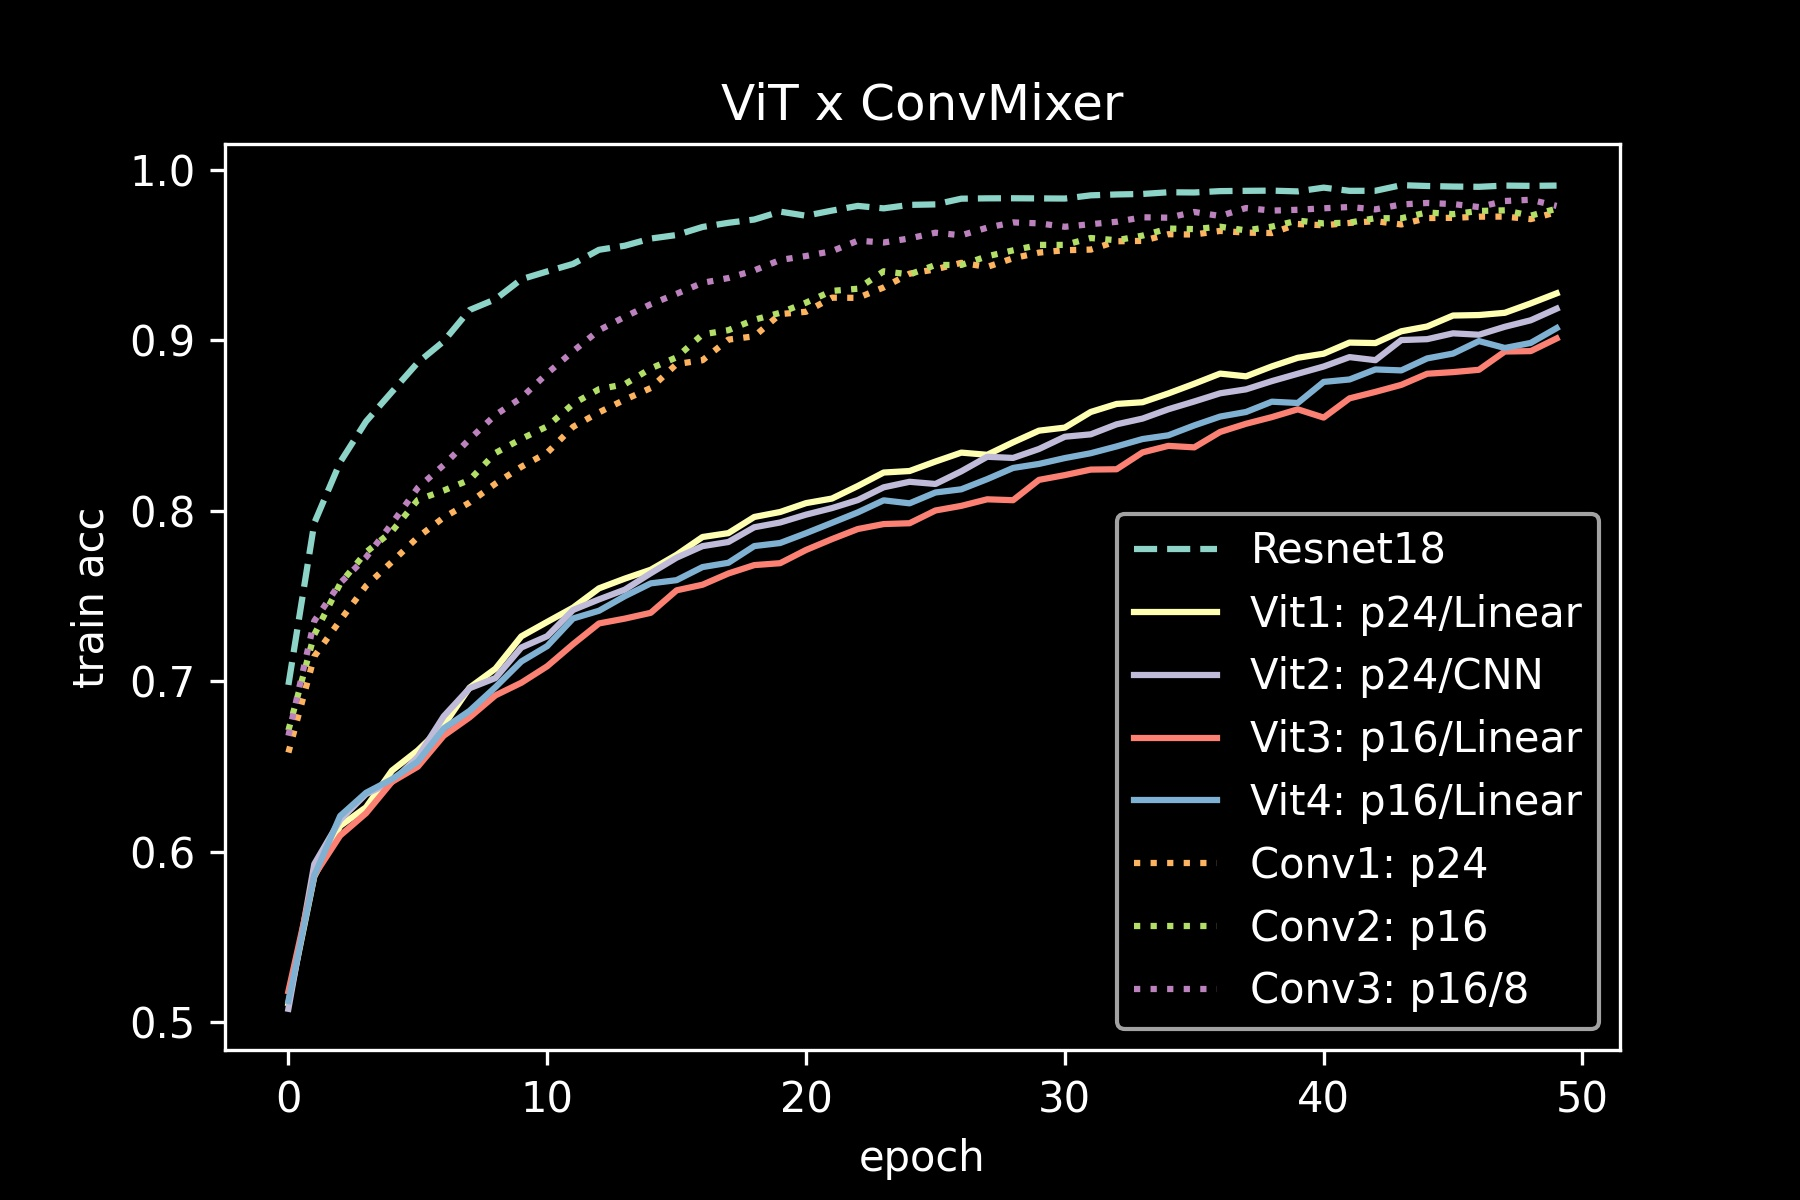
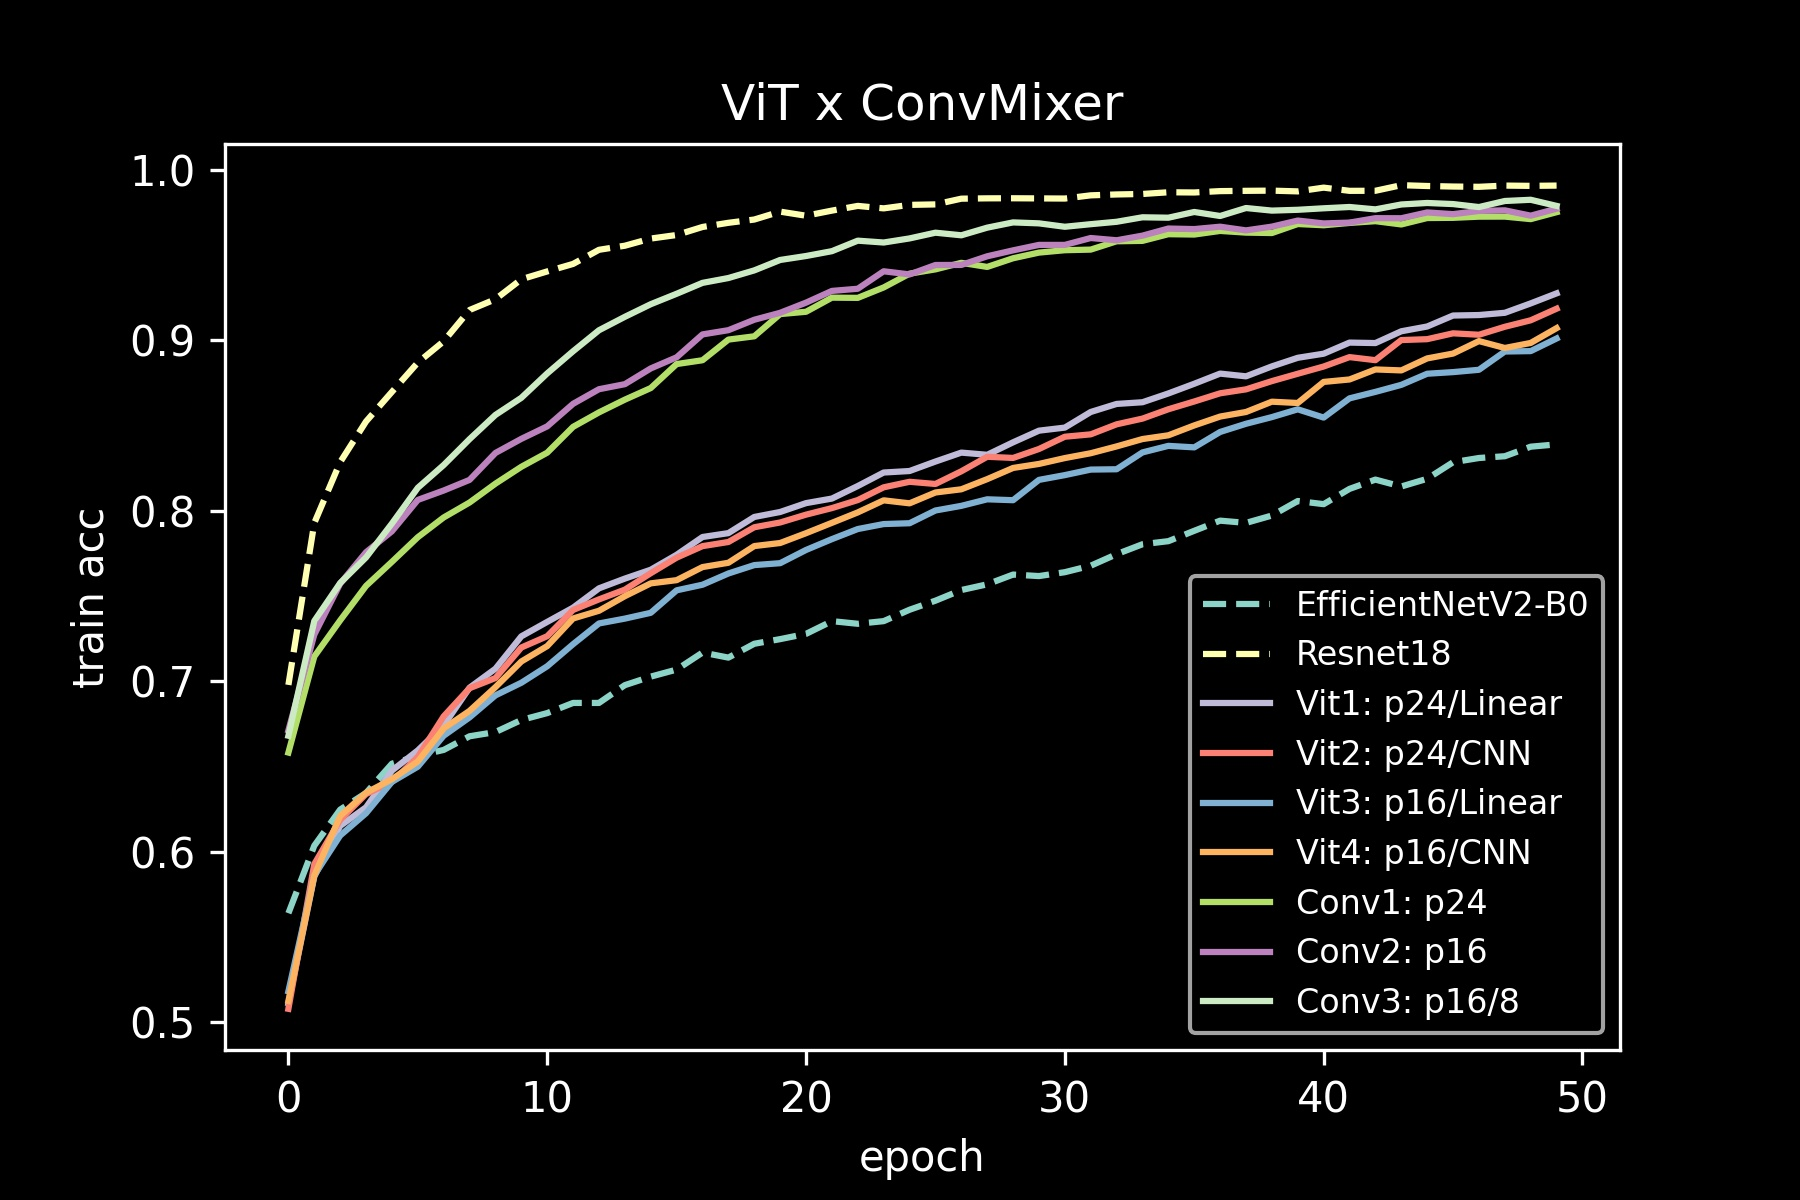
add images

diff --git a/results/plot.py b/results/plot.py
@@ -13,7 +13,9 @@ vit2 = pd.read_csv('vit_2.csv')
 vit3 = pd.read_csv('vit_3.csv')
 vit4 = pd.read_csv('vit_4.csv')
 resnet = pd.read_csv('resnet.csv')
+efficient = pd.read_csv('efficient.csv')
 
+efficient_loss = np.array(efficient['loss'])
 resnet_loss = np.array(resnet['loss'])
 vit1_loss = np.array(vit1['loss'])
 vit2_loss = np.array(vit2['loss'])
@@ -26,22 +28,25 @@ conv3_loss = np.array(conv3['loss'])
 
 x = np.arange(50)
 plt.title('ViT x ConvMixer')
+plt.plot(x, efficient_loss, '--', label=f'EfficientNetV2-B0')
 plt.plot(x, resnet_loss, '--', label=f'Resnet18')
 plt.plot(x, vit1_loss, label=f'Vit1: p24/Linear')
 plt.plot(x, vit2_loss, label=f'Vit2: p24/CNN')
 plt.plot(x, vit3_loss, label=f'Vit3: p16/Linear')
-plt.plot(x, vit4_loss, label=f'Vit4: p16/Linear')
-plt.plot(x, conv1_loss, ':', label=f'Conv1: p24')
-plt.plot(x, conv2_loss, ':', label=f'Conv2: p16')
-plt.plot(x, conv3_loss, ':', label=f'Conv3: p16/8')
+plt.plot(x, vit4_loss, label=f'Vit4: p16/CNN')
+plt.plot(x, conv1_loss, label=f'Conv1: p24')
+plt.plot(x, conv2_loss, label=f'Conv2: p16')
+plt.plot(x, conv3_loss, label=f'Conv3: p16/8')
 
 plt.xlabel('epoch')
 plt.ylabel('train loss')
+plt.rc('legend', fontsize=8)
 plt.legend()
 plt.savefig('loss.jpg', dpi=300)
 plt.show()
 
 # %% ---------------------------------------------
+efficient_acc = np.array(efficient['acc'])
 resnet_acc = np.array(resnet['acc'])
 vit1_acc = np.array(vit1['acc'])
 vit2_acc = np.array(vit2['acc'])
@@ -54,17 +59,19 @@ conv3_acc = np.array(conv3['acc'])
 
 x = np.arange(50)
 plt.title('ViT x ConvMixer')
+plt.plot(x, efficient_acc, '--', label=f'EfficientNetV2-B0')
 plt.plot(x, resnet_acc, '--', label=f'Resnet18')
 plt.plot(x, vit1_acc, label=f'Vit1: p24/Linear')
 plt.plot(x, vit2_acc, label=f'Vit2: p24/CNN')
 plt.plot(x, vit3_acc, label=f'Vit3: p16/Linear')
-plt.plot(x, vit4_acc, label=f'Vit4: p16/Linear')
-plt.plot(x, conv1_acc, ':', label=f'Conv1: p24')
-plt.plot(x, conv2_acc, ':', label=f'Conv2: p16')
-plt.plot(x, conv3_acc, ':', label=f'Conv3: p16/8')
+plt.plot(x, vit4_acc, label=f'Vit4: p16/CNN')
+plt.plot(x, conv1_acc, label=f'Conv1: p24')
+plt.plot(x, conv2_acc, label=f'Conv2: p16')
+plt.plot(x, conv3_acc, label=f'Conv3: p16/8')
 
 plt.xlabel('epoch')
 plt.ylabel('train acc')
+plt.rc('legend', fontsize=8)
 plt.legend()
 plt.savefig('acc.jpg', dpi=300)
 plt.show()

diff --git a/README.md b/README.md
@@ -11,13 +11,13 @@ Those experiments compare Vision Transformers (ViT) [An Image is Worth 16x16 Wor
 - FP16 precision
 - Train Steps: 5000
 
-All experiments were done using the same set of hyper-parameters and optimizer. Maybe each model architecture may produce better results using specific optimizers, lr and lr scheduler.
+All experiments were done using the same set of hyper-parameters, batch size, loss and optimizer. Maybe each model architecture would produce better results using specific optimizers, lr and lr scheduler.
 
 
 ## Results
 
 - ViT 1 Linear: using a Linear layer to project the patches into 512 embed dim.
-- ViT 2 CNN: using a CNN layer to extract patches and project ito 512 embed dim.
+- ViT 2 CNN: using a CNN layer to extract patches and project into 512 embed dim.
 
 | Model             | Batch Size    | Depth      | Kernel Size | Patch Size | GPU Memory  | Time per epoch
 |--------------     |-------------- |----------- |-------------|----------- |------------ |--------------
